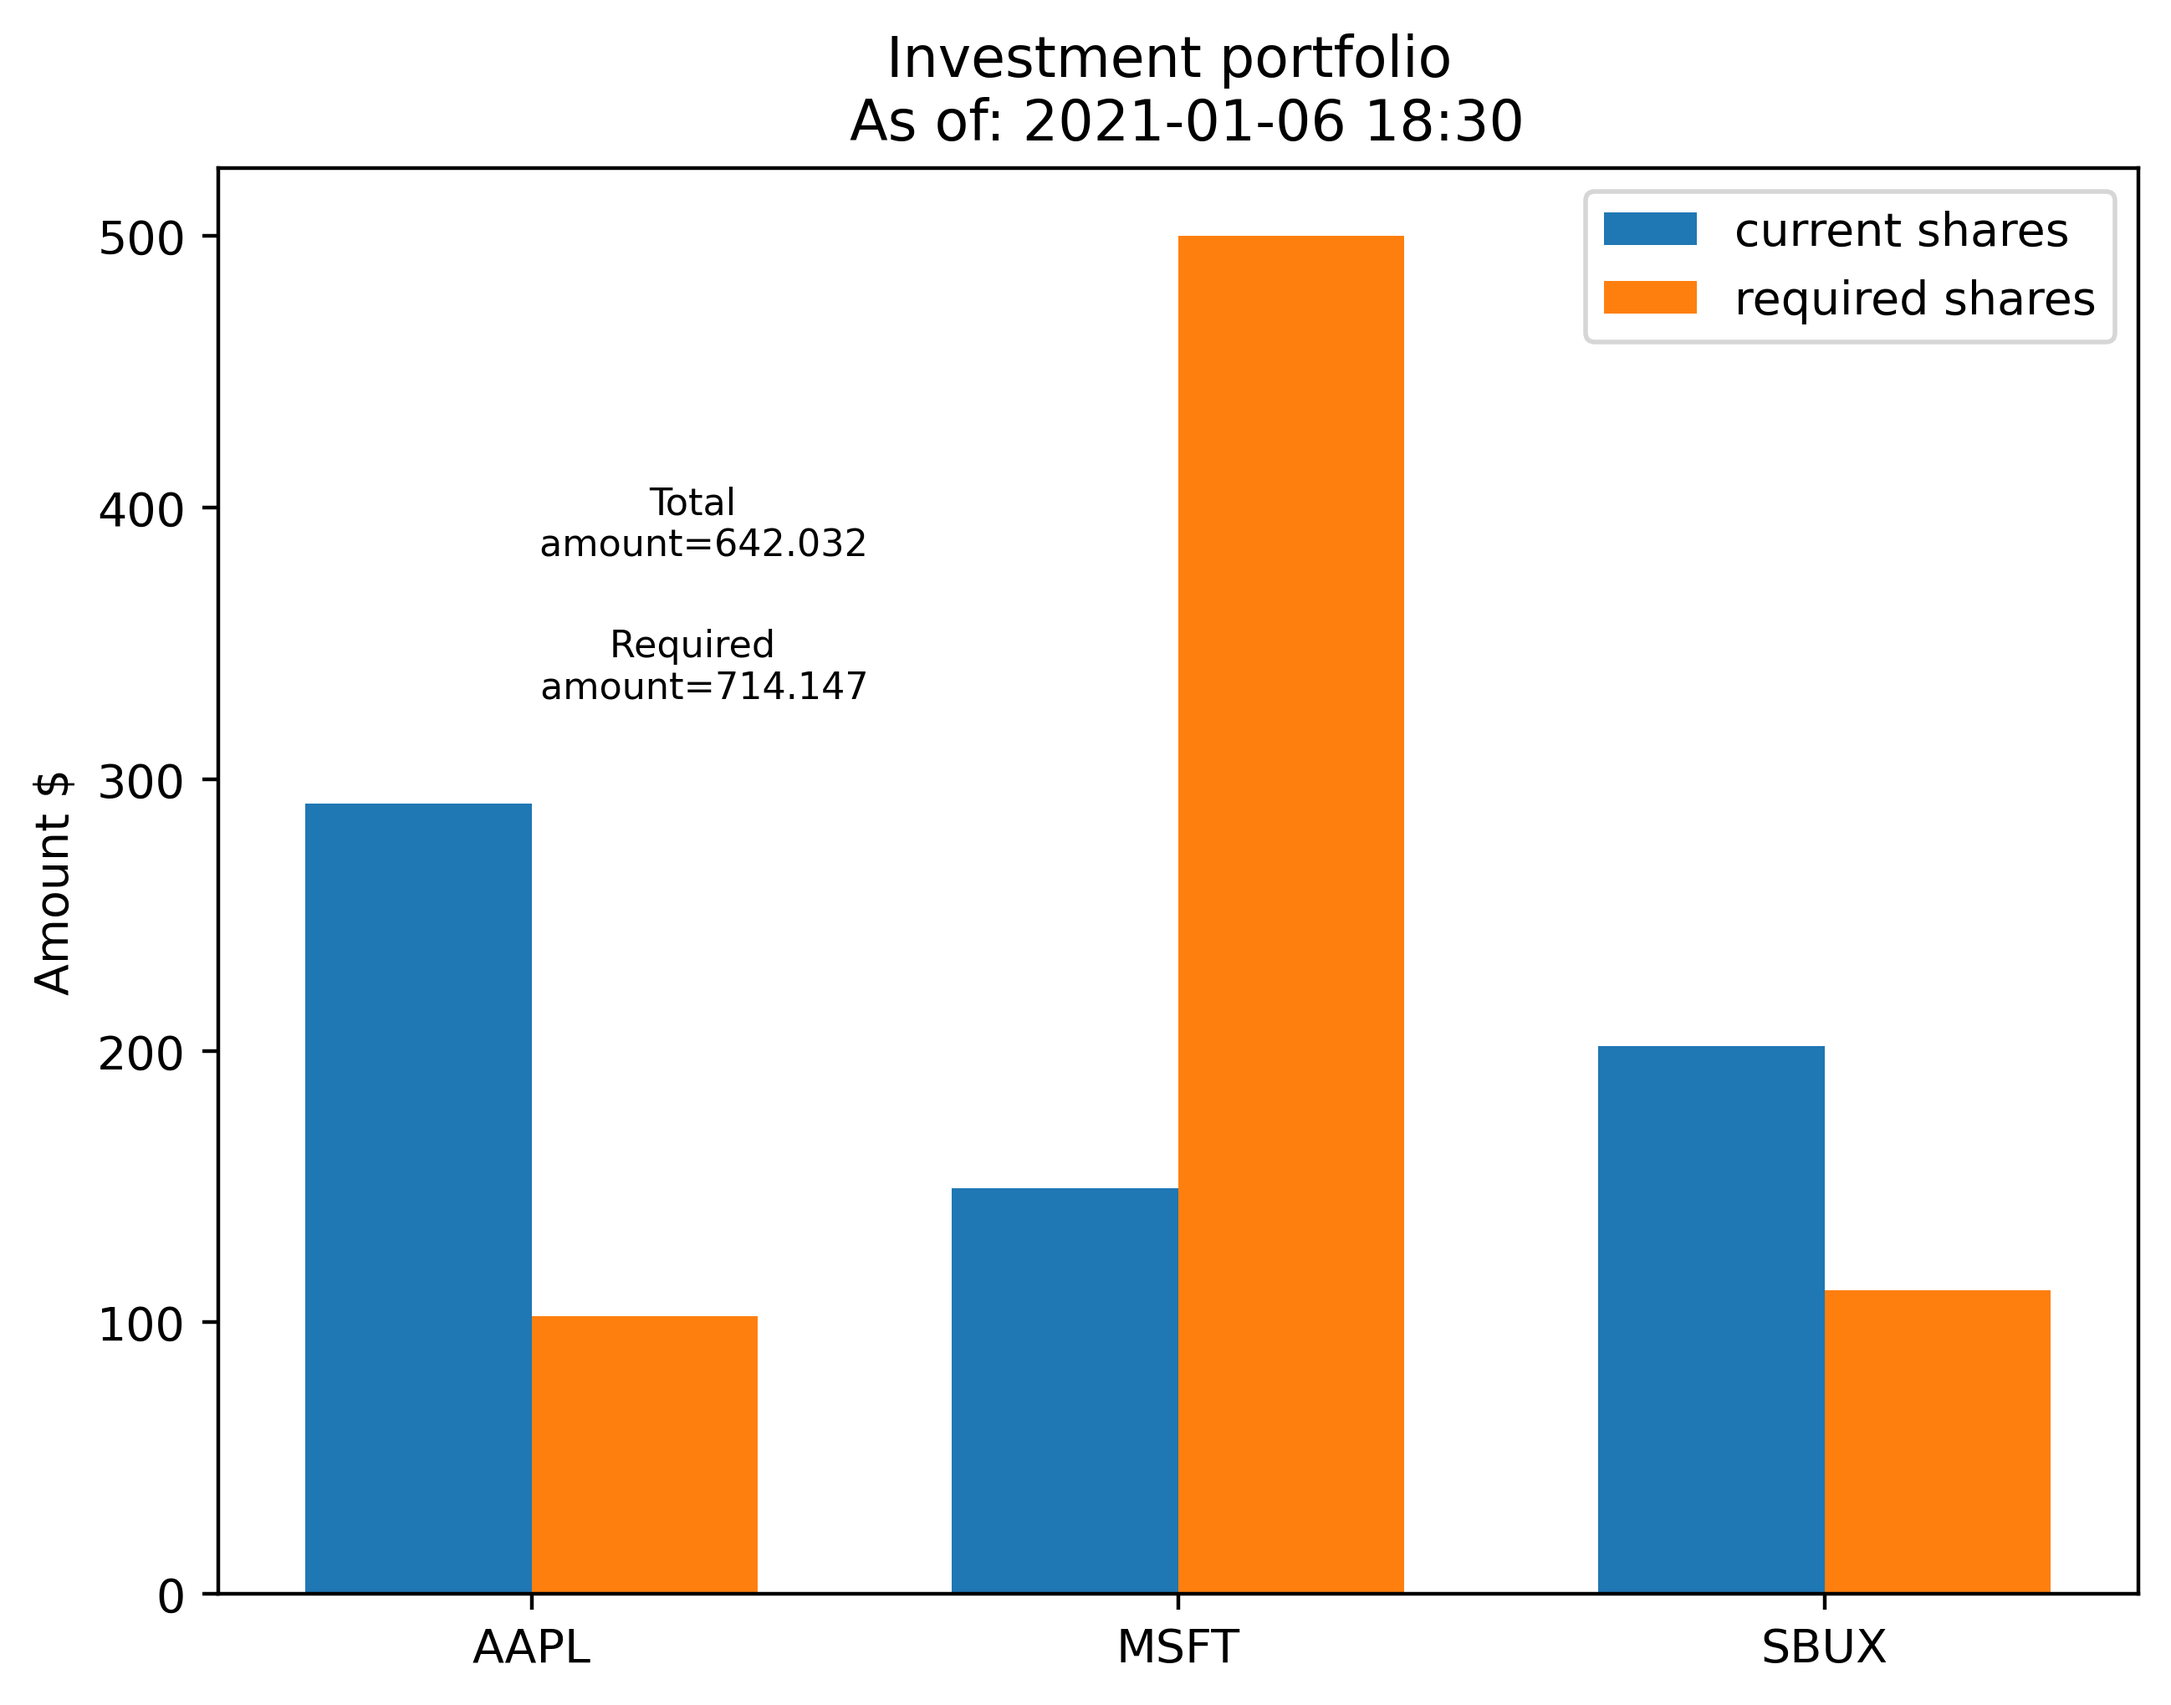
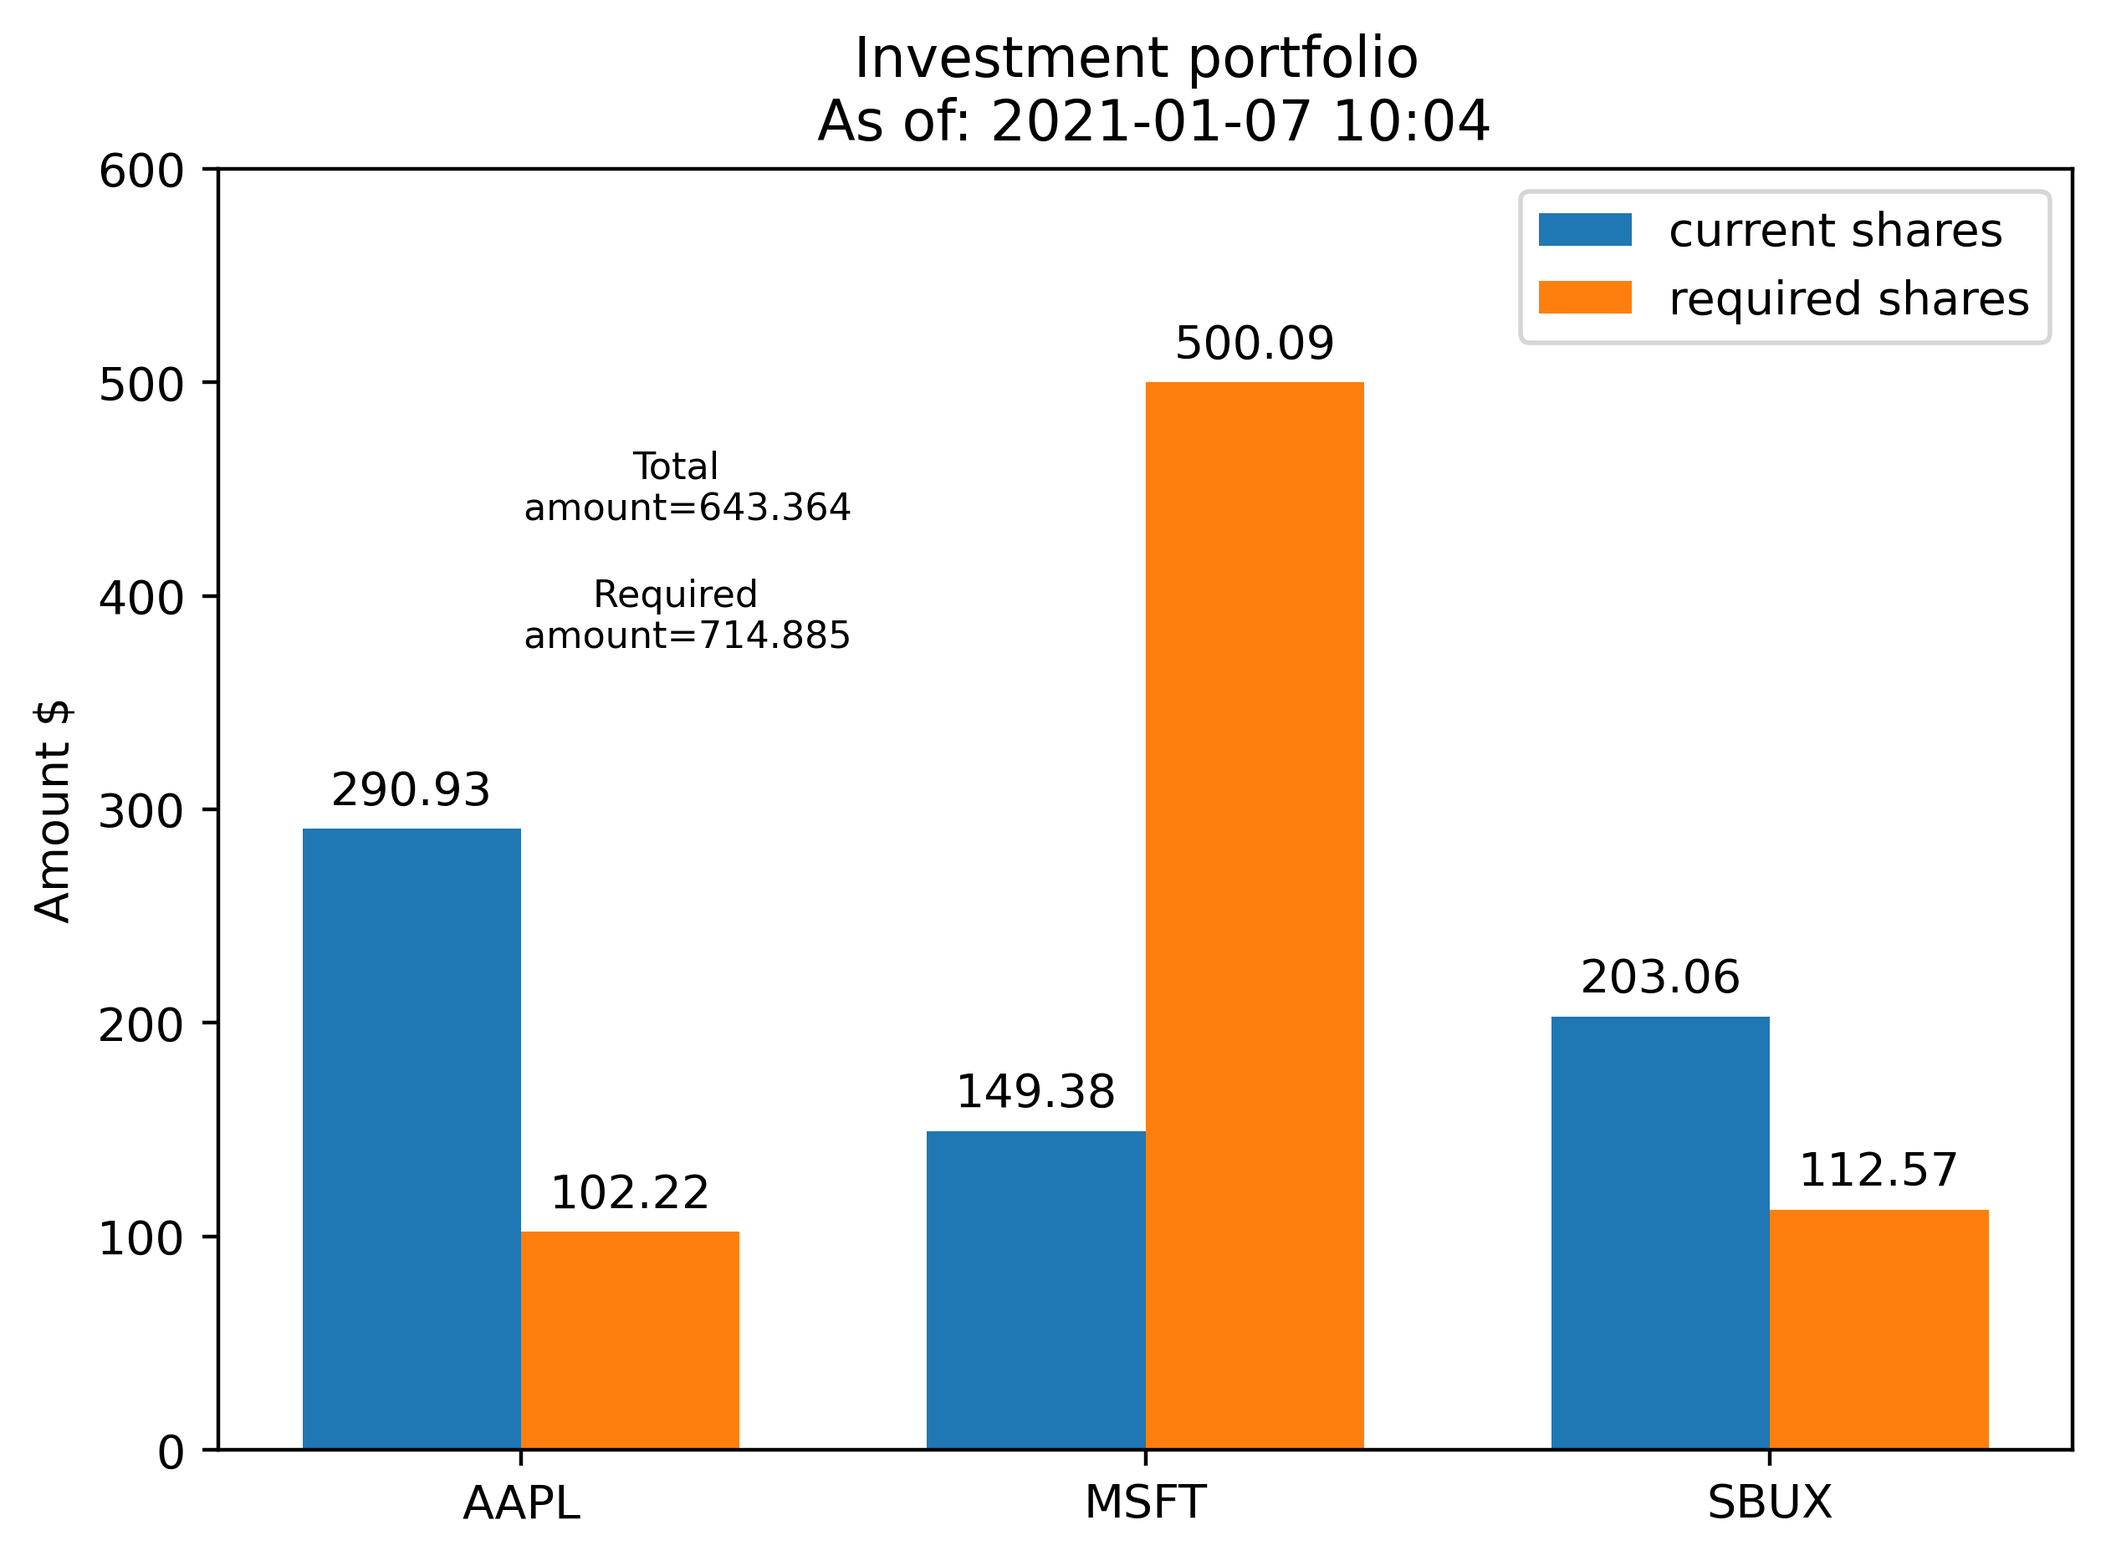
adds labelling to the bar plot for portfolio

diff --git a/code/bar-test.py b/code/bar-test.py
@@ -13,6 +13,19 @@ date = lambda: str(datetime.datetime.fromtimestamp(time.time()))[:16]
 
 print(date())
 
+# guide from https://matplotlib.org/3.1.1/gallery/lines_bars_and_markers/barchart.html#sphx-glr-gallery-lines-bars-and-markers-barchart-py
+
+
+def autolabel(axes, bars):
+    """Attach a text label above each bar in *rects*, displaying its height."""
+    for bar in bars:
+        height = bar.get_height()
+        axes.annotate(f'{round(height,2)}',
+                      xy=(bar.get_x() + bar.get_width() / 2, height),
+                      xytext=(0, 3),  # 3 points vertical offset
+                      textcoords="offset points",
+                      ha='center', va='bottom')
+
 
 def ShowStocks(stock_names, stock_shares, required_shares):
 
@@ -41,8 +54,6 @@ def ShowStocks(stock_names, stock_shares, required_shares):
     bar2 = ax.bar(x_ticks + width / 2, required_market_value,
                   width=width, label='required shares')
 
-    fig.tight_layout()
-
     # plt.annotate(
     #     f'Total \n amount={round(sum(current_market_value),3)}', [1, 250])
     # plt.annotate(
@@ -55,13 +66,20 @@ def ShowStocks(stock_names, stock_shares, required_shares):
     ax.set_xticks(x_ticks)
     ax.set_xticklabels(stock_names)
     ax.set_ylabel('Amount $')
+    max_scale_amount = max(max(current_market_value),
+                           max(required_market_value))
+    ax.set_ylim(0, max_scale_amount + 100)
     ax.legend(loc='best')
 
+    autolabel(ax, bar1)
+    autolabel(ax, bar2)
     # plt.xticks(x_ticks, stock_names)
     # plt.yticks([0, max(stock_shares)/2, max(stock_shares)])
     # plt.title('Current investment portfolio')
     # plt.xlabel('Company')
     # plt.ylabel('Total invested \n capital ($)')
+
+    fig.tight_layout()
     plt.savefig('financial.png', dpi=400, bbox_inches='tight')
 
 
